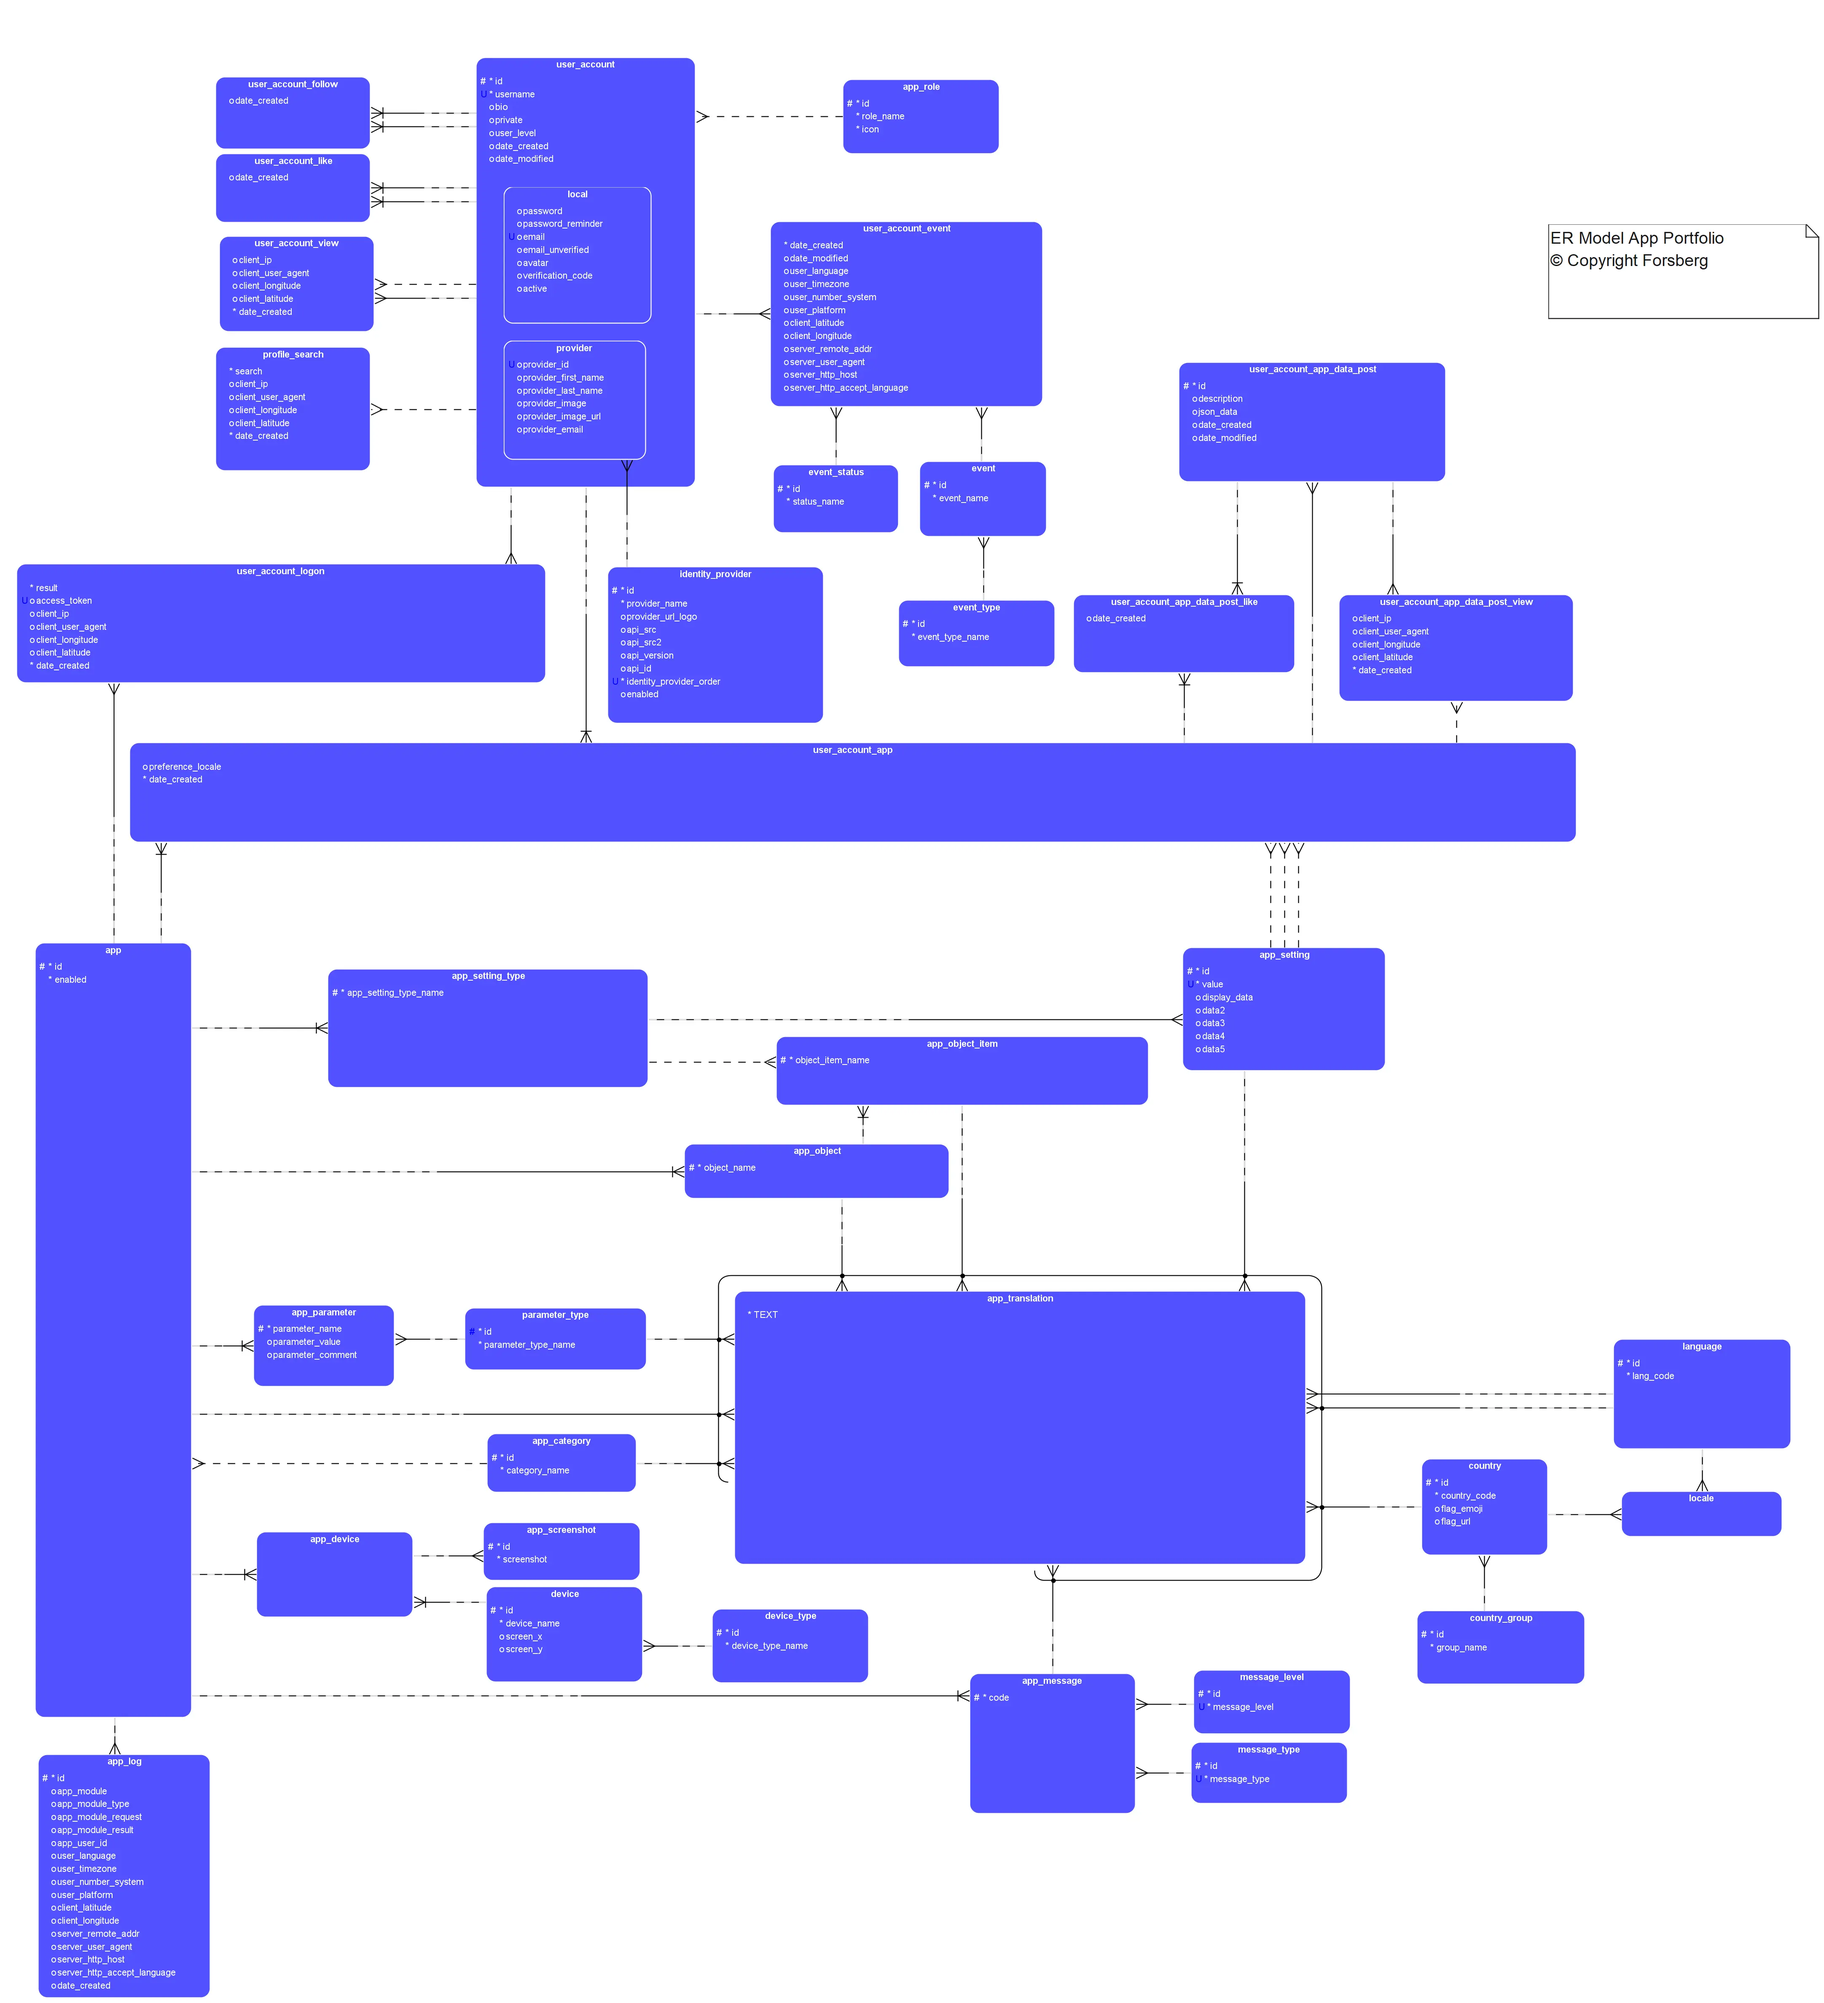
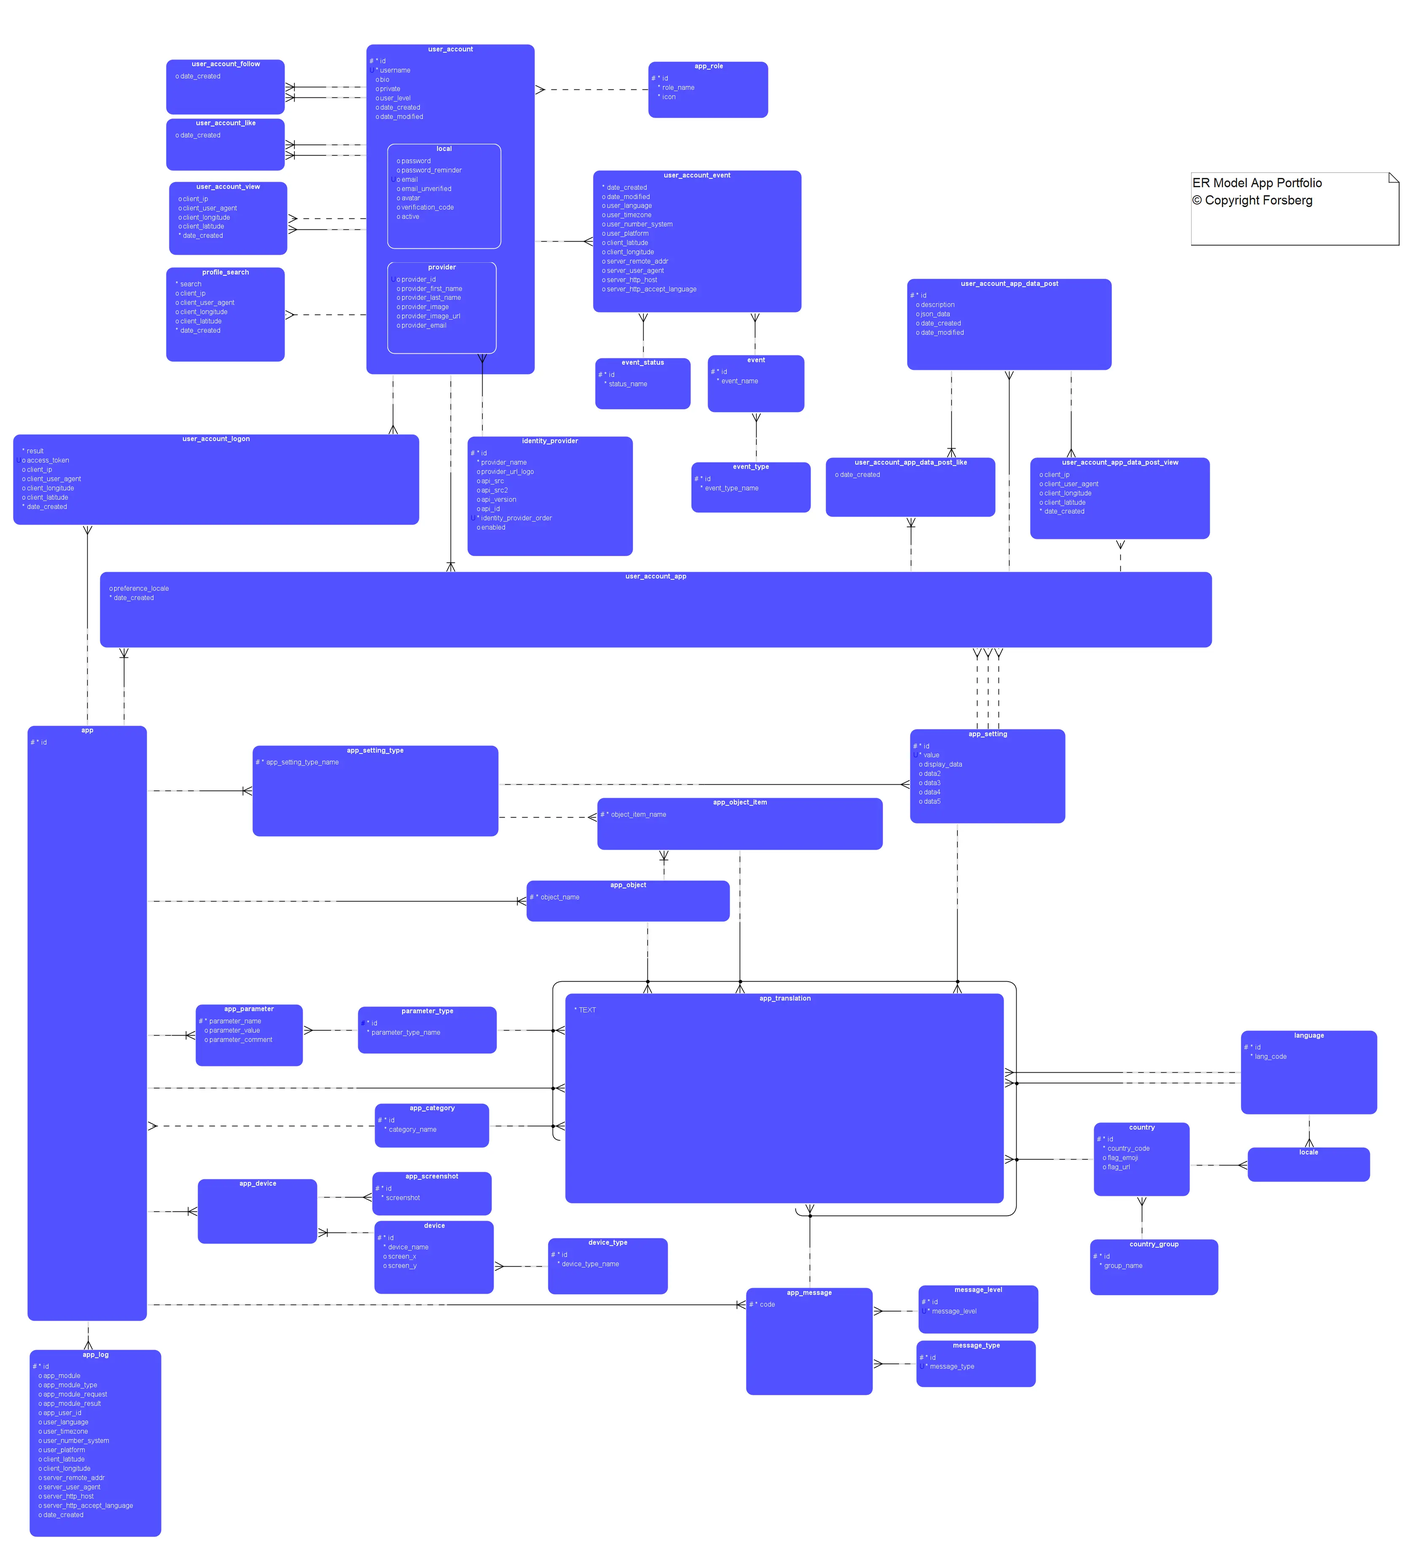
APB-739 replaces enabled in app table with STATUS ONLINE/OFFLINE in apps.json, app1 and user account app list show all apps but app wont start if offline, removes async from app_start() and db call with reading apps.json, admin app shows STATUS, adjust script order of app_translation table constrain

diff --git a/apps/apps.service.js b/apps/apps.service.js
@@ -13,31 +13,21 @@ const {COMMON, getNumberValue} = await import(`file://${process.cwd()}/server/se
 /**
  * Checks if ok to start app
  * @param {number|null} app_id
- * @param {string|null} lang_code
- * @returns {Promise.<boolean>}
+ * @returns {boolean}
  */
- const app_start = async (app_id=null, lang_code=null)=>{
-    const {getApp} = await import(`file://${process.cwd()}/server/dbapi/app_portfolio/app.service.js`);
-    return new Promise((resolve)=>{
-        if (getNumberValue(file_get_cached('CONFIG').MAINTENANCE)==0 && ConfigGet('SERVICE_DB', 'START')=='1' && ConfigGet('SERVER', 'APP_START')=='1' &&
-            ConfigGet('SERVICE_DB', `DB${ConfigGet('SERVICE_DB', 'USE')}_APP_ADMIN_USER`))
-            if (app_id == null)
-                resolve(true);
-            else{
-                //check also current app_id if enabled
-                getApp(app_id, app_id, lang_code)
-                .then((/** @type{Types.db_result_app_getApp[]}*/result_app)=> {
-                    //function already has condition enabled=1
-                    if (result_app.length==1)
-                        resolve(true);
-                    else
-                        resolve(false);
-                })
-                .catch(()=>resolve(false));
-            }
-        else
-            resolve(false);
-    });
+ const app_start = (app_id=null)=>{
+    if (getNumberValue(file_get_cached('CONFIG').MAINTENANCE)==0 && ConfigGet('SERVICE_DB', 'START')=='1' && ConfigGet('SERVER', 'APP_START')=='1' &&
+        ConfigGet('SERVICE_DB', `DB${ConfigGet('SERVICE_DB', 'USE')}_APP_ADMIN_USER`))
+        if (app_id == null)
+            return true;
+        else{
+            if (ConfigGetApp(app_id, 'STATUS')=='ONLINE')
+                return true;
+            else
+                return false;
+        }
+    else
+        return false;
 };
 /**
  * Get client locale from accept language from request
@@ -161,7 +151,7 @@ const render_common_html = async (app_id, module, locale) =>{
     /** @type {[string, string][]} */
     const render_variables = [];
 
-    if ((app_id== getNumberValue(ConfigGet('SERVER', 'APP_COMMON_APP_ID')) && await app_start()==false)){
+    if ((app_id== getNumberValue(ConfigGet('SERVER', 'APP_COMMON_APP_ID')) && app_start()==false)){
             //if admin app and system admin only
             app_config.RENDER_LOCALES = false;
             app_config.RENDER_SETTINGS = false;
@@ -748,7 +738,7 @@ const getAppBFF = async (app_id, app_parameters) =>{
         //get app admin
         const{createAdmin } = await import(`file://${process.cwd()}/apps/admin/src/app.js`);
         app = await createAdmin(app_id, client_locale(app_parameters.accept_language));
-        if (await app_start()==true){
+        if (app_start()==true){
             system_admin_only = 0;
         }
         else{
@@ -1013,8 +1003,9 @@ const getApps = async (app_id, id, lang_code) =>{
     const apps = apps_registry.reduce(( /**@type{Types.config_apps_record} */app, /**@type {Types.config_apps_record}*/current)=>
                                         app.concat({APP_ID:current.APP_ID,
                                                     NAME:current.NAME,
+                                                    SUBDOMAIN:current.SUBDOMAIN,
                                                     LOGO:current.PATH + current.LOGO,
-                                                    SUBDOMAIN:current.SUBDOMAIN
+                                                    STATUS:current.STATUS
                                                     }) , []);
     
     for (const app of apps){
@@ -1046,19 +1037,18 @@ const getApps = async (app_id, id, lang_code) =>{
     const apps = apps_registry.reduce(( /**@type{Types.config_apps_record} */app, /**@type {Types.config_apps_record}*/current)=> 
                                         app.concat({ID:current.APP_ID,
                                                     NAME:current.NAME,
+                                                    SUBDOMAIN:current.SUBDOMAIN,
                                                     LOGO:current.LOGO,
-                                                    SUBDOMAIN:current.SUBDOMAIN
+                                                    STATUS:current.STATUS,
                                                     }) , []);    
     
     apps.map(app=>{
         app.PROTOCOL = ConfigGet('SERVER', 'HTTPS_ENABLE')=='1'?'https://':'http://';
         app.HOST = ConfigGet('SERVER', 'HOST');
         app.PORT = getNumberValue(ConfigGet('SERVER', 'HTTPS_ENABLE')=='1'?ConfigGet('SERVER', 'HTTPS_PORT'):ConfigGet('SERVER', 'HTTP_PORT'));
-        app.ENABLED = apps_db.filter(app_db=>app_db.id==app.ID)[0].enabled;
         app.APP_CATEGORY_ID = apps_db.filter(app_db=>app_db.id==app.ID)[0].app_category_id;
         app.APP_CATEGORY_TEXT = apps_db.filter(app_db=>app_db.id==app.ID)[0].app_category_text;
     });
-    //return apps with ID, NAME, LOGO, SUBDOMAIN, PROTOCOL, HOST, PORT, ENABLED, APP_CATEGORY_ID and APP_CATEGORY_TEXT only
 	return apps;
 };
 /**
@@ -1152,7 +1142,7 @@ const getAppMain = async (ip, host, user_agent, accept_language, url, reportid, 
         return null;
     }
     else
-        if (app_id == getNumberValue(ConfigGet('SERVER', 'APP_COMMON_APP_ID')) || await app_start(app_id) ==true)
+        if (app_id == getNumberValue(ConfigGet('SERVER', 'APP_COMMON_APP_ID')) || app_start(app_id) ==true)
             return new Promise((resolve, reject)=>{
                 if (url.toLowerCase().startsWith('/css')||
                     url.toLowerCase().startsWith('/images')||

diff --git a/apps/admin/public/js/secure.js b/apps/admin/public/js/secure.js
@@ -1014,7 +1014,7 @@ const show_apps = async () => {
                                 <div>LOGO</div>
                             </div>
                             <div id='list_apps_col_title5' class='list_apps_col list_title'>
-                                <div>ENABLED</div>
+                                <div>STATUS</div>
                             </div>
                             <div id='list_apps_col_title6' class='list_apps_col list_title'>
                                 <div>CATEGORY ID</div>
@@ -1040,7 +1040,7 @@ const show_apps = async () => {
                         <input type=text class='list_edit' value='${app.LOGO}' readonly/>
                     </div>
                     <div class='list_apps_col'>
-                        <input type='checkbox' class='list_edit' ${app.ENABLED==1?'checked':''} />
+                        <div class='list_readonly' class='list_readonly'>${app.STATUS}</div>
                     </div>
                     <div class='list_apps_col'>
                         <input type='text' class='list_edit common_input_lov' value='${common.get_null_or_value(app.APP_CATEGORY_ID)}' />
@@ -1068,8 +1068,6 @@ const show_apps = async () => {
             //add lov icon
             document.querySelectorAll('#list_apps .common_lov_button').forEach(e => e.innerHTML = common.ICONS.app_lov);
             list_events('list_apps', 'list_apps_row', ' .list_edit');
-            //disable enabled checkbox for app 0 common
-            document.querySelector('#list_apps_row_0').children[4].children[0].disabled = true;
             //set focus first column in first row
             //this will trigger to show detail records
             document.querySelectorAll('#list_apps .list_edit')[0].focus();
@@ -1146,7 +1144,6 @@ const button_save = async (item) => {
                                     record,
                                     item,
                                     {id: record.children[0].children[0].innerHTML,
-                                     enabled: record.children[4].children[0].checked,
                                      app_category_id: record.children[5].children[0].value});
             }
         }
@@ -1264,15 +1261,7 @@ const update_record = async (table,
                 break;
             }
             case 'app':{
-                if (parameters.id==common.COMMON_GLOBAL.common_app_id){
-                    if (row_element.children[4].children[0].checked == false){
-                        //app common.COMMON_GLOBAL.common_app_id should always be enabled
-                        row_element.children[4].children[0].checked = true;
-                        parameters.enabled=true;
-                    }
-                }
                 json_data = {   
-                                enabled:        parameters.enabled==true?1:0,
                                 app_category_id:parameters.app_category_id
                             };
                 path = `/apps/admin?PUT_ID=${parameters.id}`;

diff --git a/types.js b/types.js
@@ -601,7 +601,8 @@
  *              'APP_ACCESS_SECRET'|
  *              'APP_ACCESS_EXPIRE'|
  *              'CONFIG'|
- *              'RENDER_FILES'} config_apps_keys
+ *              'RENDER_FILES'|
+ *              'STATUS'} config_apps_keys
  * @typedef {{  MAP: boolean, 
  *              MANIFEST:boolean,
  *              RENDER_PROFILE_APPS:boolean,
@@ -616,6 +617,7 @@
  *              RENDER_LOCALES:boolean, 
  *              RENDER_SETTINGS:boolean, 
  *              RENDER_PROVIDER_BUTTONS:boolean}} config_apps_config
+ * @typedef {'ONLINE'|'OFFLINE'} config_apps_status
  * @typedef  {[string,string|null,string|null,string, string|null]} config_apps_render_files
  * @typedef  {object} config_apps_record
  * @property {function} filter
@@ -643,6 +645,7 @@
  * @property {string} [ACCESS_EXPIRE]
  * @property {config_apps_config} [CONFIG]
  * @property {config_apps_render_files[]} [RENDER_FILES]
+ * @property {config_apps_status} STATUS
  * 
  * @typedef  {object} config_apps_with_db_columns
  * @property {number} APP_ID
@@ -659,6 +662,7 @@
  * @property {string} SHOWINFO
  * @property {string} SHOWPARAM
  * @property {string} CLIENT_ID
+ * @property {config_apps_status} STATUS
  * @property {string} APP_DESCRIPTION
  * @property {string} APP_CATEGORY
  * @property {string} PROTOCOL
@@ -680,7 +684,7 @@
  * @property {string} SHOWINFO
  * @property {string} SHOWPARAM
  * @property {string} CLIENT_ID
- * @property {number} ENABLED
+ * @property {config_apps_status} STATUS
  * @property {number} APP_CATEGORY_ID
  * @property {string} APP_CATEGORY_TEXT
  * @property {string} PROTOCOL
@@ -1076,13 +1080,11 @@
  * result:
  *  db_result_[TABLE]_[function name]
  * APP
- * @typedef {{  enabled:number, 
- *              app_category_id:number|null}} db_parameter_app_updateAppAdmin
+ * @typedef {{  app_category_id:number|null}} db_parameter_app_updateAppAdmin
  * @typedef {{  id:number, 
  *              app_description:string, 
  *              app_category:string}} db_result_app_getApp
  * @typedef {{  id:number, 
- *              enabled:number, 
  *              app_category_id:number, 
  *              app_category_text:string}} db_result_app_getAppsAdmin
  * @typedef {{  id:number}} db_result_app_getAppsAdminId

diff --git a/server/config.service.js b/server/config.service.js
@@ -56,7 +56,8 @@ const app_portfolio_title = 'App Portfolio';
                                                                             FAVICON_32x32:current.FAVICON_32x32,
                                                                             FAVICON_192x192:current.FAVICON_192x192,
                                                                             SHOWINFO:current.SHOWINFO,
-                                                                            SHOWPARAM:current.SHOWPARAM}) , []);
+                                                                            SHOWPARAM:current.SHOWPARAM,
+                                                                            STATUS:current.STATUS}) , []);
     return apps;                                                            
  };
  /**
@@ -111,7 +112,8 @@ const app_portfolio_title = 'App Portfolio';
         case 'APP_ACCESS_SECRET':
         case 'APP_ACCESS_EXPIRE':
         case 'CONFIG':
-        case 'RENDER_FILES':{
+        case 'RENDER_FILES':
+        case 'STATUS':{
             return Object.entries(file_get_cached('APPS'))[0][1].filter(
                 (/**@type{Types.config_apps_record}*/app)=>{return app.APP_ID == app_id;})[0][parameter];
         }

diff --git a/server/dbapi/app_portfolio/app.service.js b/server/dbapi/app_portfolio/app.service.js
@@ -46,7 +46,6 @@ const getApp = async (app_id, id,lang_code) => {
 				WHERE ( ((id = :id) OR :id IS NULL)
 					OR 
 					:id = :common_app_id)
-				AND enabled = 1
 				ORDER BY 1`;
 		const parameters = {lang_code1: get_locale(lang_code, 1),
 							lang_code2: get_locale(lang_code, 2),
@@ -63,7 +62,6 @@ const getApp = async (app_id, id,lang_code) => {
  */
 const getAppsAdmin = async (app_id, lang_code) => {
 		const sql = `SELECT	a.id "id",
-						a.enabled "enabled",
 						a.app_category_id "app_category_id",
 						act.text "app_category_text"
 				FROM ${db_schema()}.app a
@@ -107,11 +105,9 @@ const getAppsAdminId = async (app_id) => {
  */
 const updateAppAdmin = async (app_id, id, data) => {
 		const sql = `UPDATE ${db_schema()}.app
-						SET enabled = :enabled,
-							app_category_id = :app_category_id
+						SET app_category_id = :app_category_id
 					WHERE id = :id`;
-		const parameters = {enabled: data.enabled,
-							app_category_id: data.app_category_id,
+		const parameters = {app_category_id: data.app_category_id,
 							id: id};
 		return await db_execute(app_id, sql, parameters, null);
 	};

diff --git a/server/socket.service.js b/server/socket.service.js
@@ -205,7 +205,7 @@ const ClientAdd = (newClient) => {
         const { getUserRoleAdmin } = await import(`file://${process.cwd()}/server/dbapi/app_portfolio/user_account.service.js`);
         for (const client of connected_clients_no_res){
             if (client.system_admin==0)
-                if (await app_start()==true){    
+                if (app_start()==true){    
                     await getUserRoleAdmin(app_id, client.user_account_id, dba)
                     .then((/**@type{Types.db_result_user_account_getUserRoleAdmin[]}*/result_app_role)=>{
                         if (result_app_role[0]){

diff --git a/server/dbapi/object/app.js b/server/dbapi/object/app.js
@@ -30,8 +30,7 @@ const getAppsAdmin = (app_id, query) => service.getAppsAdmin(app_id, query.get('
  */
 const updateAdmin = (app_id, query, data) =>{
     /**@type{Types.db_parameter_app_updateAppAdmin} */
-    const body = {	enabled: 		getNumberValue(data.enabled) ?? 0,
-                    app_category_id:getNumberValue(data.app_category_id)};
+    const body = {	app_category_id:getNumberValue(data.app_category_id)};
     return service.updateAppAdmin(app_id, getNumberValue(query.get('PUT_ID')), body)
             .catch((/**@type{Types.error}*/error)=>{throw error;});
 };

diff --git a/server/dbapi/app_portfolio/user_account_app.service.js b/server/dbapi/app_portfolio/user_account_app.service.js
@@ -39,8 +39,7 @@ const getUserAccountApps = async (app_id, user_account_id) => {
 					   FROM ${db_schema()}.user_account_app uap,
 							${db_schema()}.app a
 					  WHERE a.id = uap.app_id
-						AND uap.user_account_id = :user_account_id
-						AND a.enabled = 1`;
+						AND uap.user_account_id = :user_account_id`;
 		const parameters = {
 						user_account_id: user_account_id
 						};

diff --git a/apps/admin/public/css/admin.css b/apps/admin/public/css/admin.css
@@ -506,7 +506,7 @@ ul#admin_login_nav li{
 	width:150px;
 }
 .list_apps_col:nth-child(5){
-	width: 50px;
+	width: 70px;
 }
 .list_apps_col:nth-child(5) input{   
 	vertical-align: middle;
